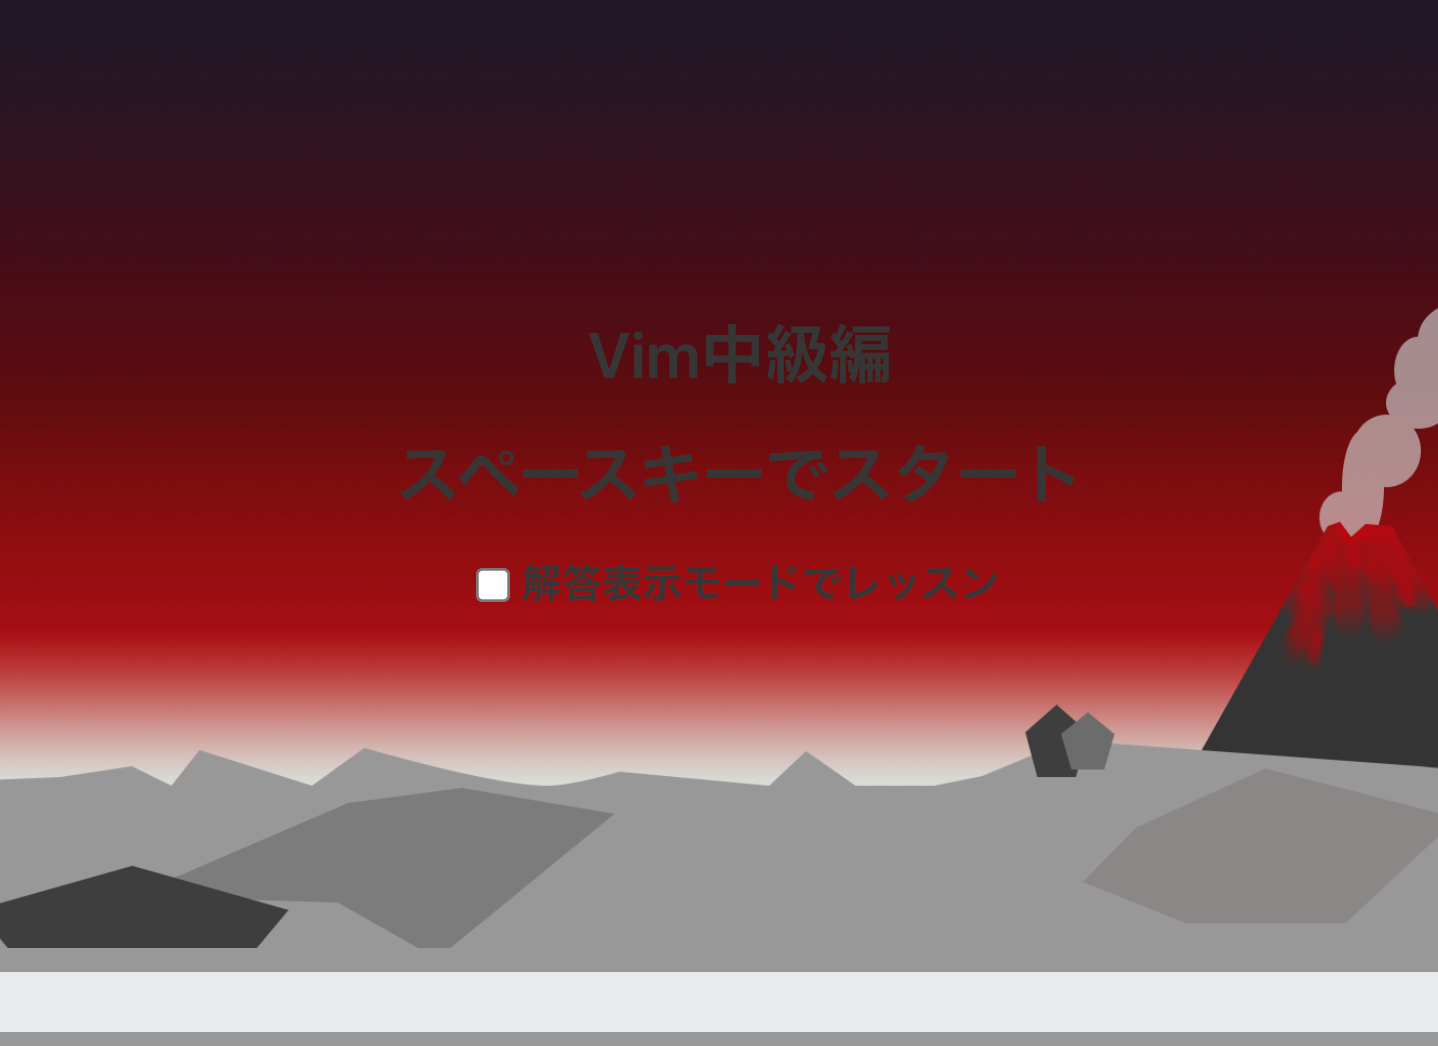
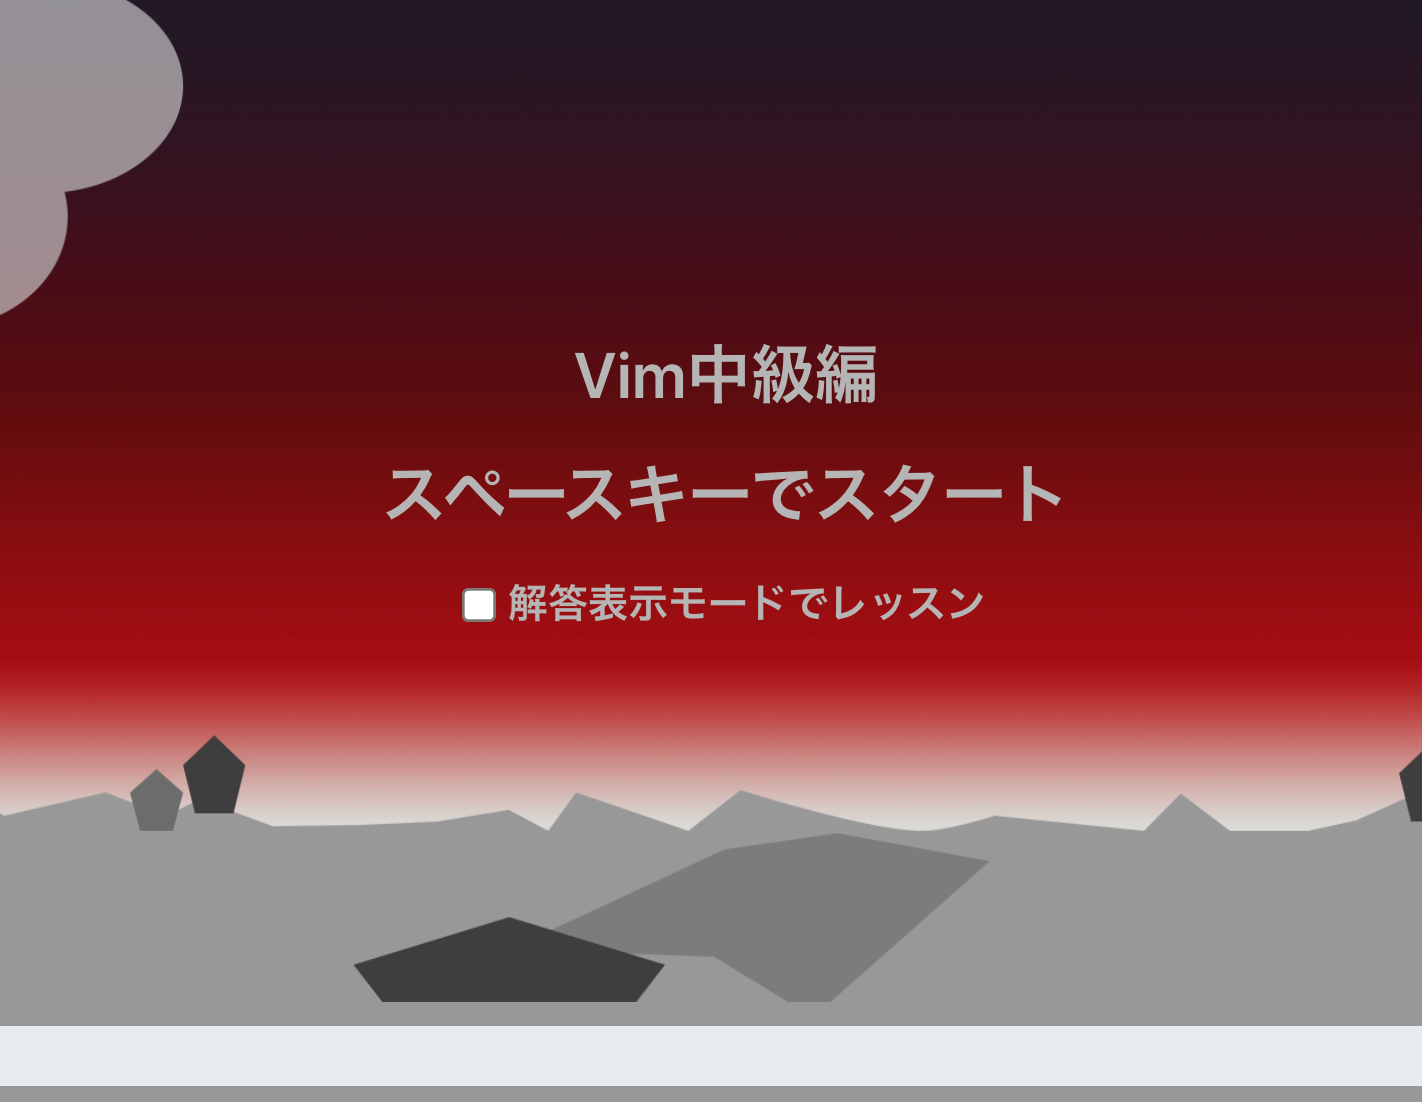
Modify: font

diff --git a/app/javascript/stylesheets/additional_fonts.scss b/app/javascript/stylesheets/additional_fonts.scss
@@ -1,11 +1,13 @@
 @font-face {
   font-family: 'MPLUS1p-Bold';
   src: url('../fonts/MPLUS1p-Bold.ttf') format("truetype");
+  font-display: swap;
 }
 
 @font-face {
   font-family: 'MPLUS1p-Regular';
   src: url('../fonts/MPLUS1p-Regular.ttf') format("truetype");
+  font-display: swap;
 }
 
 .add-font-bold {

diff --git a/app/javascript/stylesheets/application.scss b/app/javascript/stylesheets/application.scss
@@ -5,3 +5,4 @@
 @import 'bulma/css/bulma.css';
 @import 'lesson';
 @import 'additional_fonts';
+@import 'pagetop';
